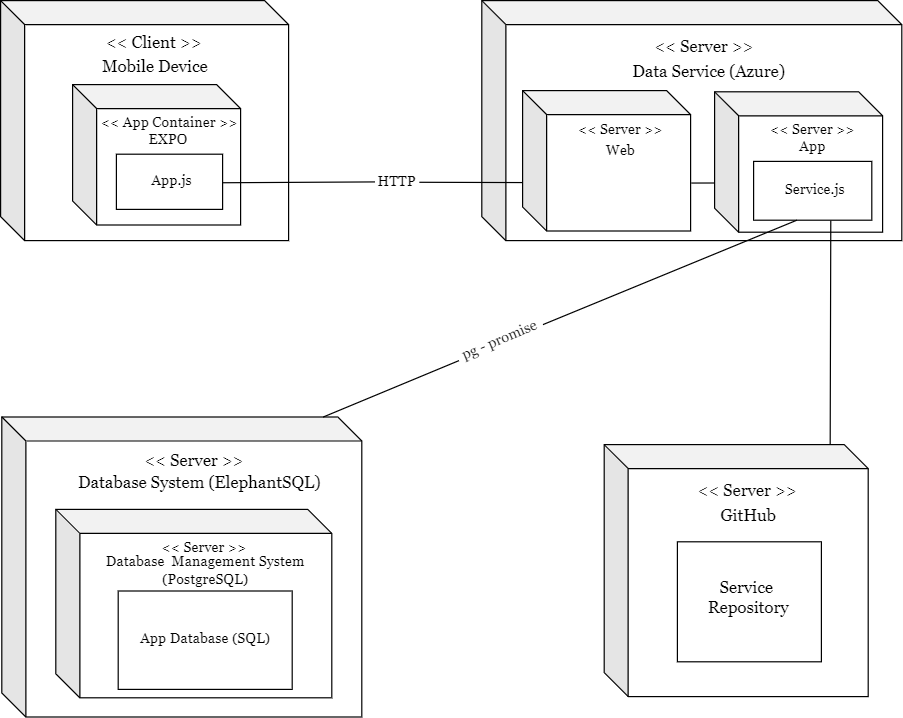
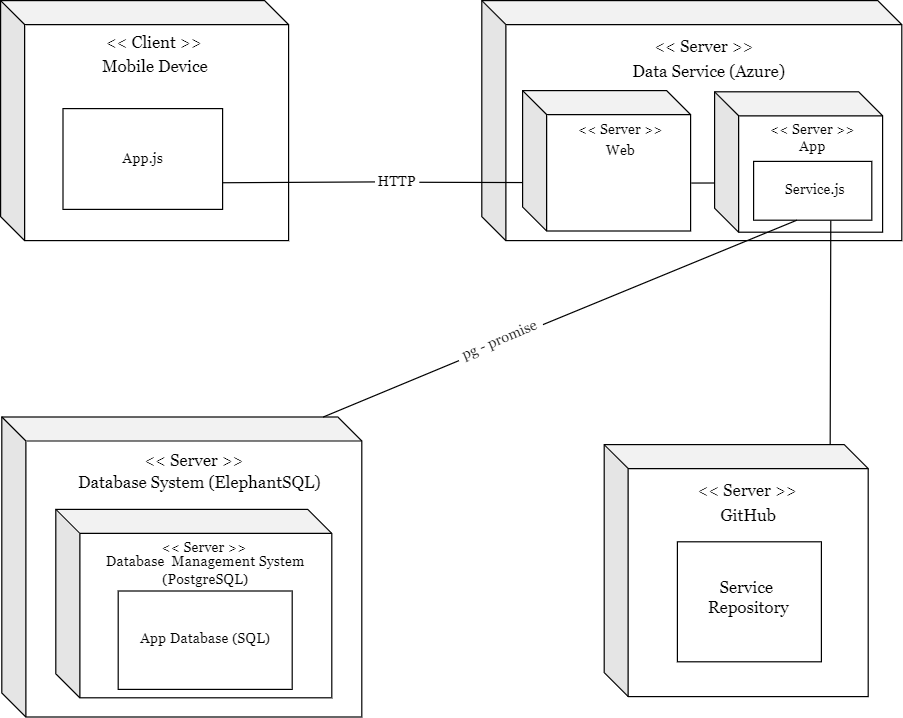
Made changes to Deployment Diagram and README

Changed region(s): [[0.062, 0.1226, 0.2791, 0.3064]]

diff --git a/README.md b/README.md
@@ -10,18 +10,26 @@ Together, let’s bid goodbye to wallet-wincing prices and say hello to a market
 
 Here is our:
 
+**Models/Diagram**
 - [Domain Model](https://github.com/calvin-cs262-fall2023-teamG/Project/blob/main/images/Domain%20Model.png)
 
-- [User Interface Model](https://github.com/calvin-cs262-fall2023-teamG/Project/blob/main/images/UI%20Model2.0.png)
+- [User Interface Model](https://github.com/calvin-cs262-fall2023-teamG/Project/blob/main/images/UI%20Model.png)
 
 - [User Interface Model (Figma)](https://www.figma.com/file/3ER62jiZpUtHMRjWnH2H6i/UI-Model?type=whiteboard&node-id=0-1&t=D1fxS6d45IBOtoCs-0)
 
-- [Client](https://github.com/calvin-cs262-fall2023-teamG/Client)
-
-- [Trello](https://trello.com/b/ONBkWuzC/cs262g-the-chapter-cachers)
-
 - [Deployment Diagram](https://github.com/calvin-cs262-fall2023-teamG/Project/blob/main/images/Deployment%20Diagram.png)
 
+**Documentations**
+- [Trello](https://trello.com/b/ONBkWuzC/cs262g-the-chapter-cachers)
+
+- [User Test Script](https://github.com/calvin-cs262-fall2023-teamG/Project/blob/main/documents/User%20Test%20Script.pdf)
+
+- [User Test Report](https://github.com/calvin-cs262-fall2023-teamG/Project/blob/main/documents/User%20Test%20Report.pdf)
+
+**Other Repositories**
+- [Client](https://github.com/calvin-cs262-fall2023-teamG/Client)
+
+- [Service](https://github.com/calvin-cs262-fall2023-teamG/Service)
 
 
 **Teammates:**
